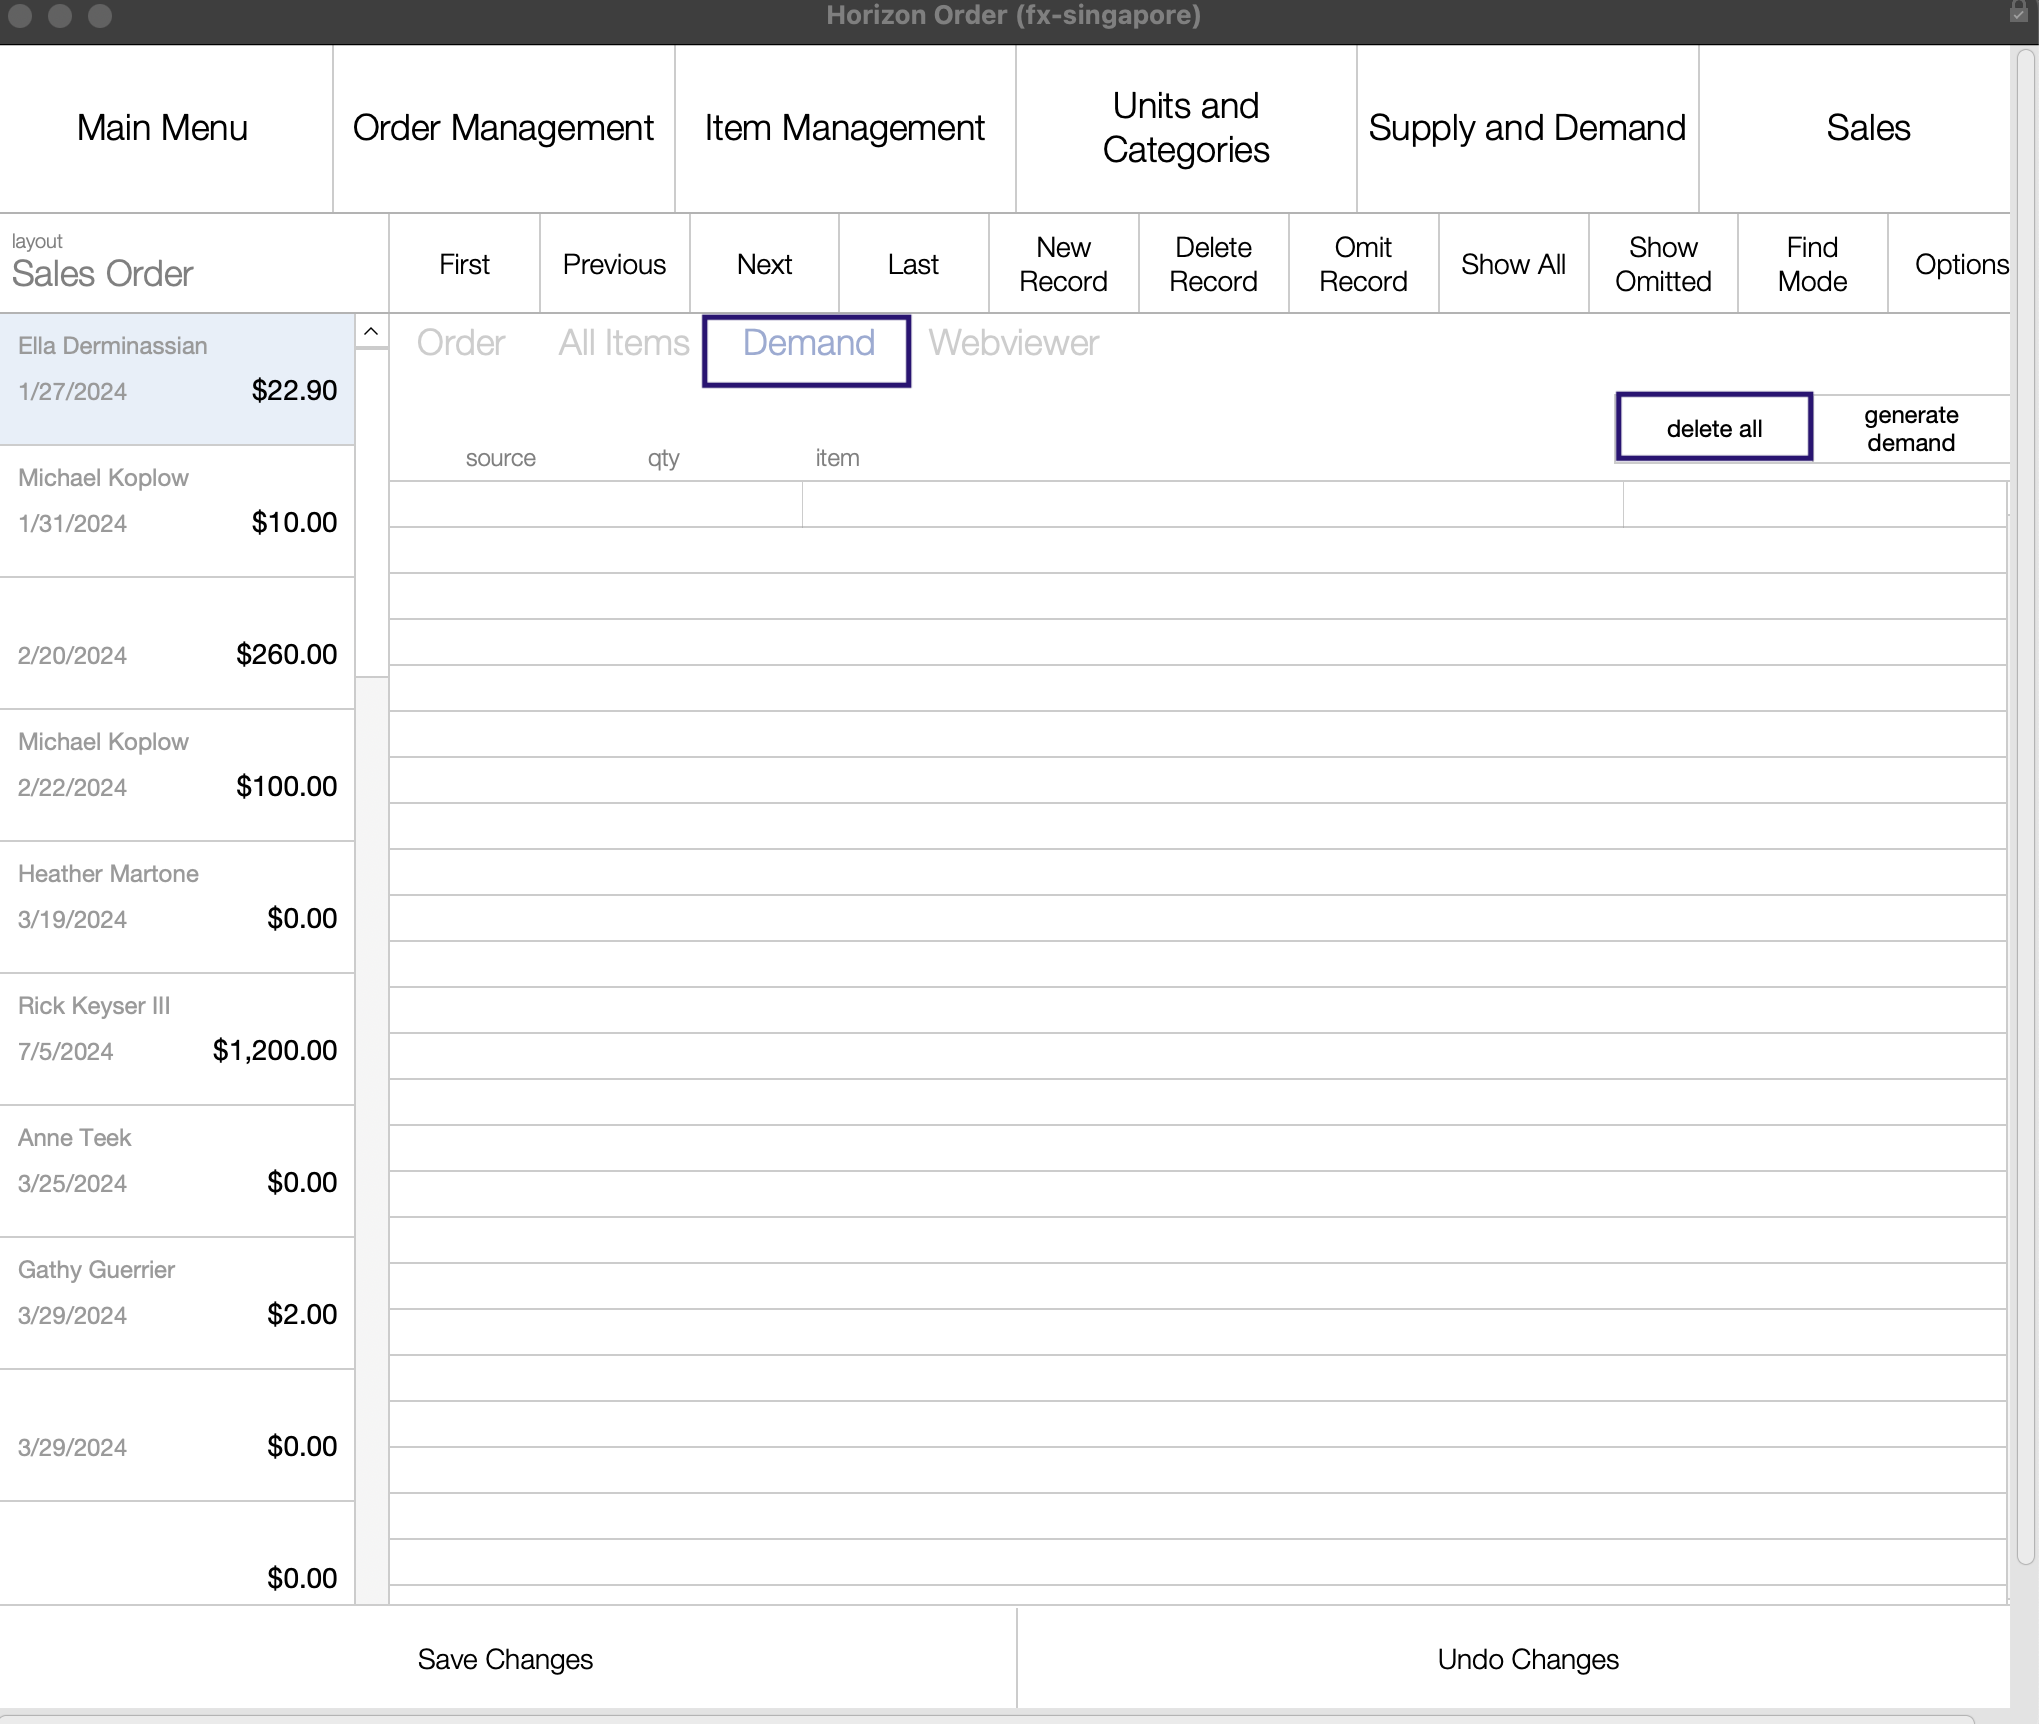
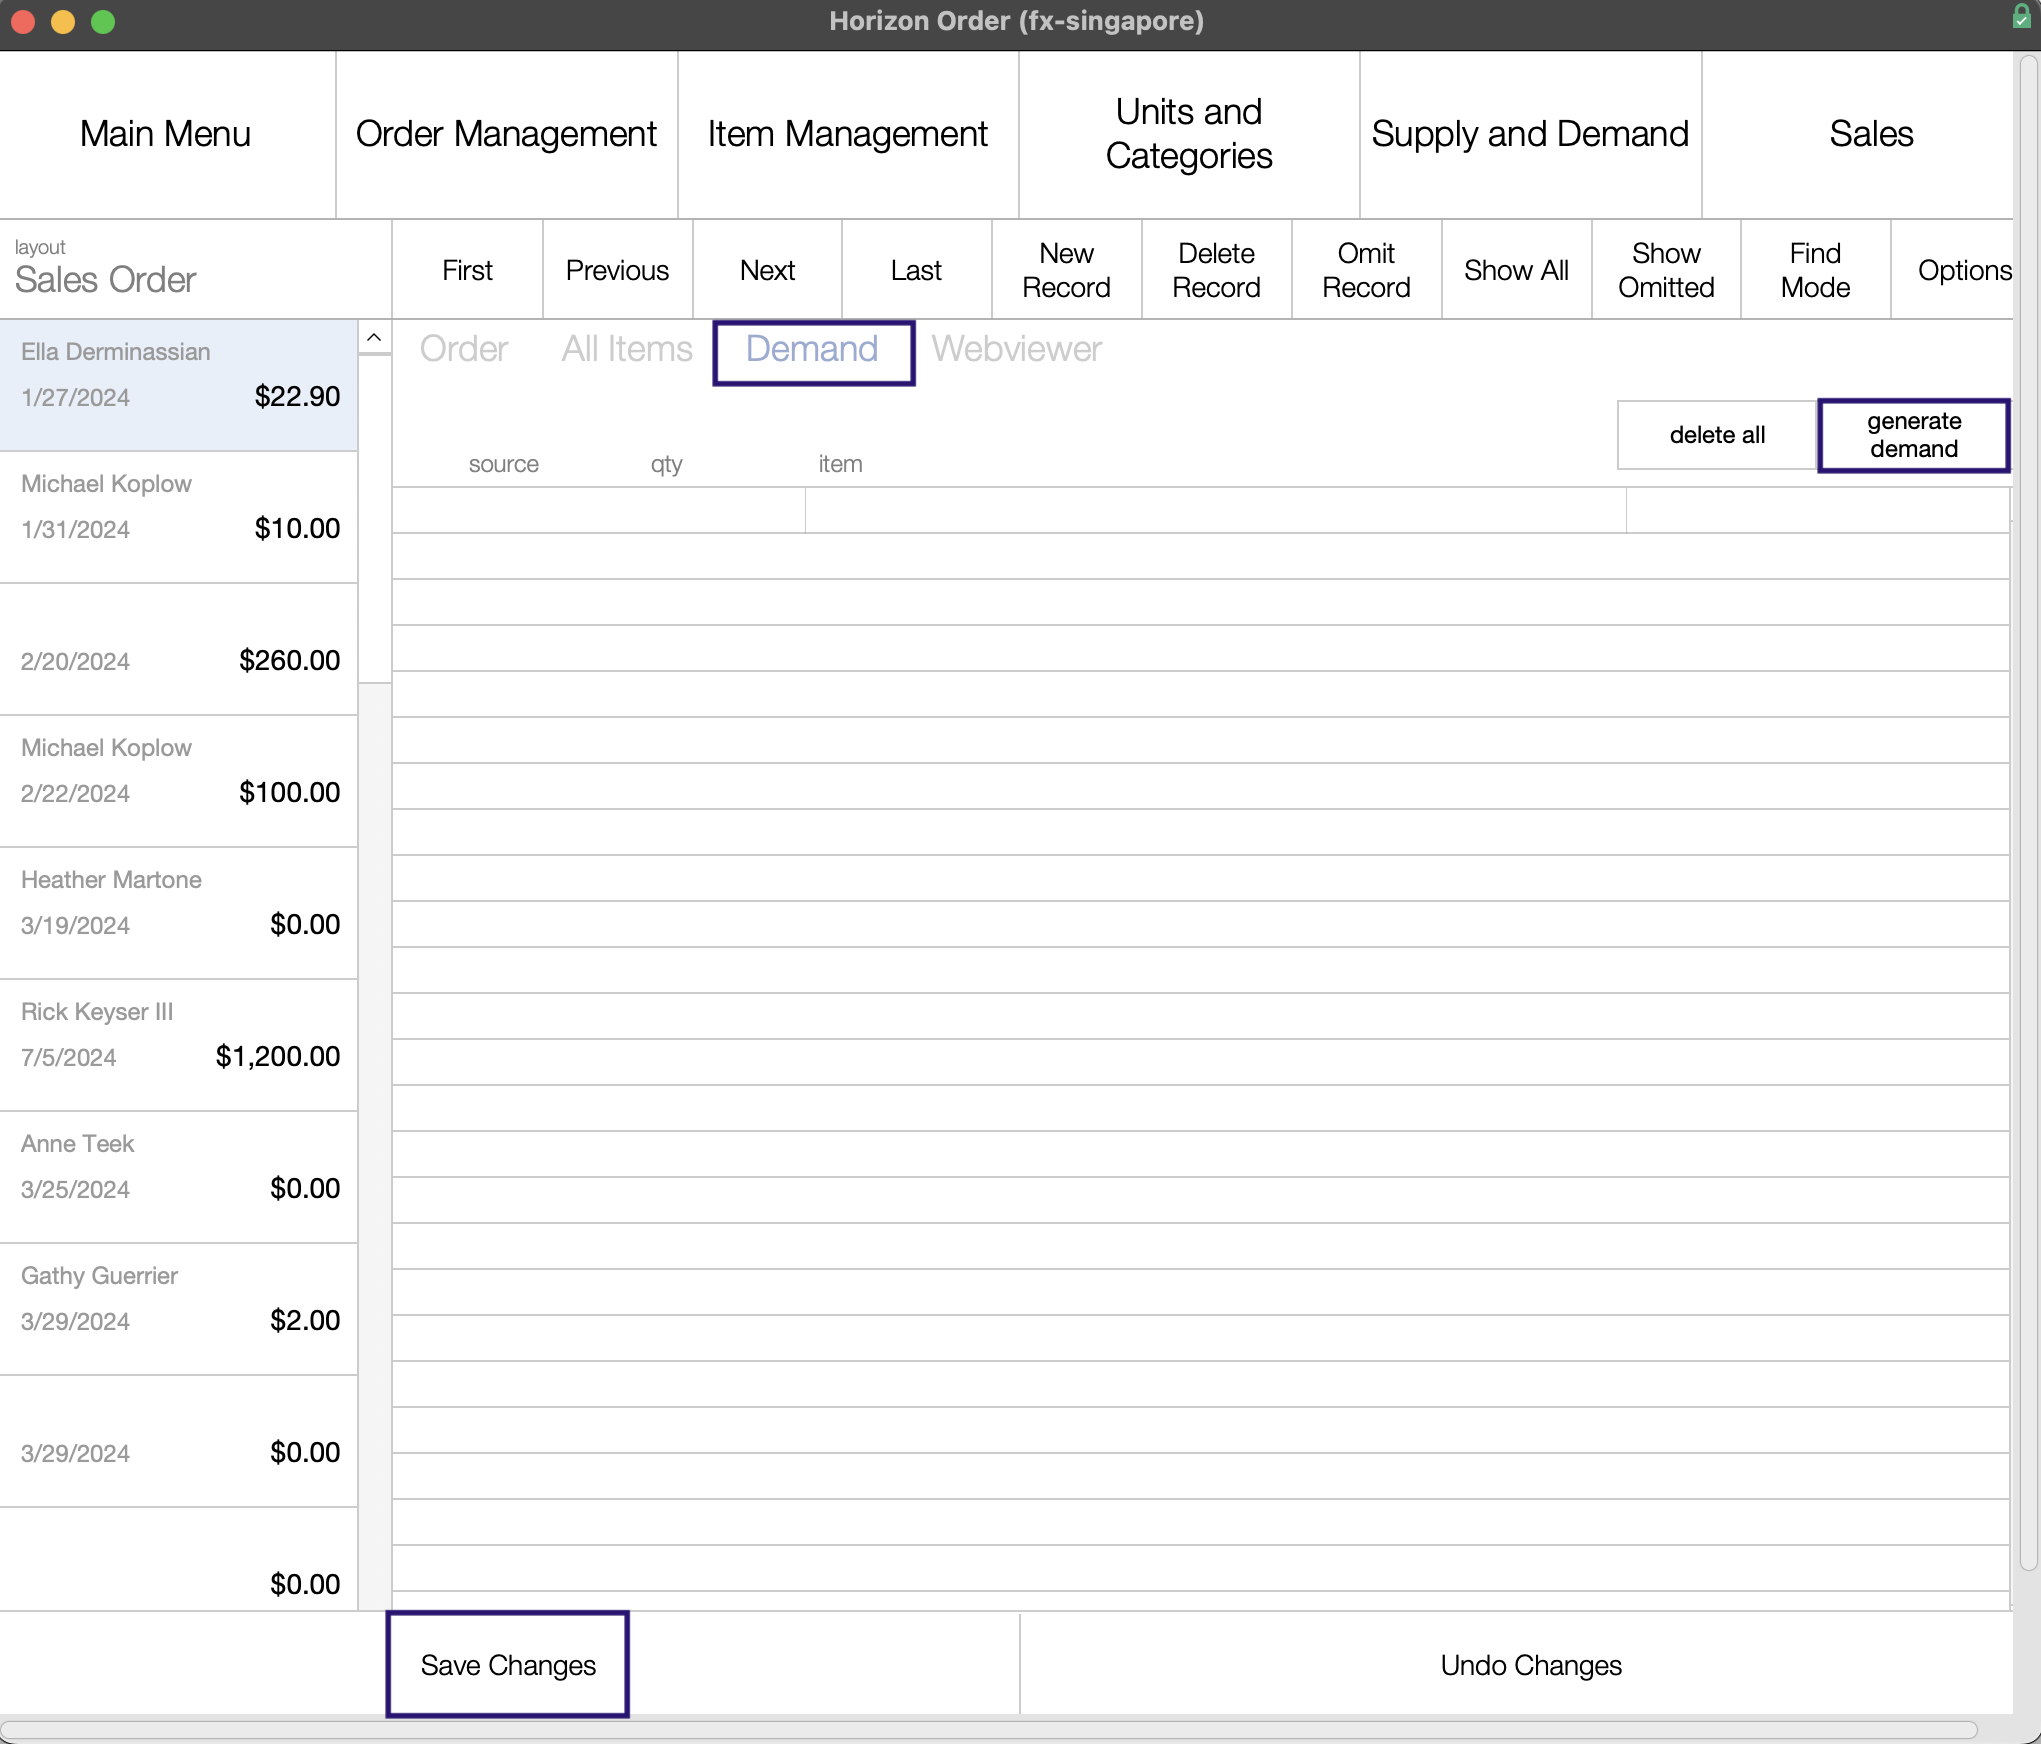
Replace Image: Generate Demand

diff --git a/Horizon User Guide/05 Sales Order/SALES ORDERS.md b/Horizon User Guide/05 Sales Order/SALES ORDERS.md
@@ -66,13 +66,13 @@ ___
 ___
 14. **Generating Demand:**
 
-- Navigate to **Demand > Generate Demand** and wait for the process to complete. Click **OK** when finished.
+- Navigate to **Demand > Generate Demand** and wait for the process to complete. Click **OK** when finished. Then, click **Save Changes**. 
 
 <img src="https://github.com/Fx-Professional-Services/HorizonDocs/blob/sales_order/Horizon%20User%20Guide/00%20Assets/05_sales_orders_generate_demand.png" width="350" height="300">
 
 15. **Generating Sales Invoice:**
 
-- Return to the **Order** tab and click **Confirm** to initiate the sales invoice generation process.
+- Return to the **Order** tab and click **confirm** to initiate the sales invoice generation process.
 
 - Click **generate invoice** and wait until the status displays **Invoiced: Yes**. Then, click **Save Changes** located at the bottom of the screen.
 
